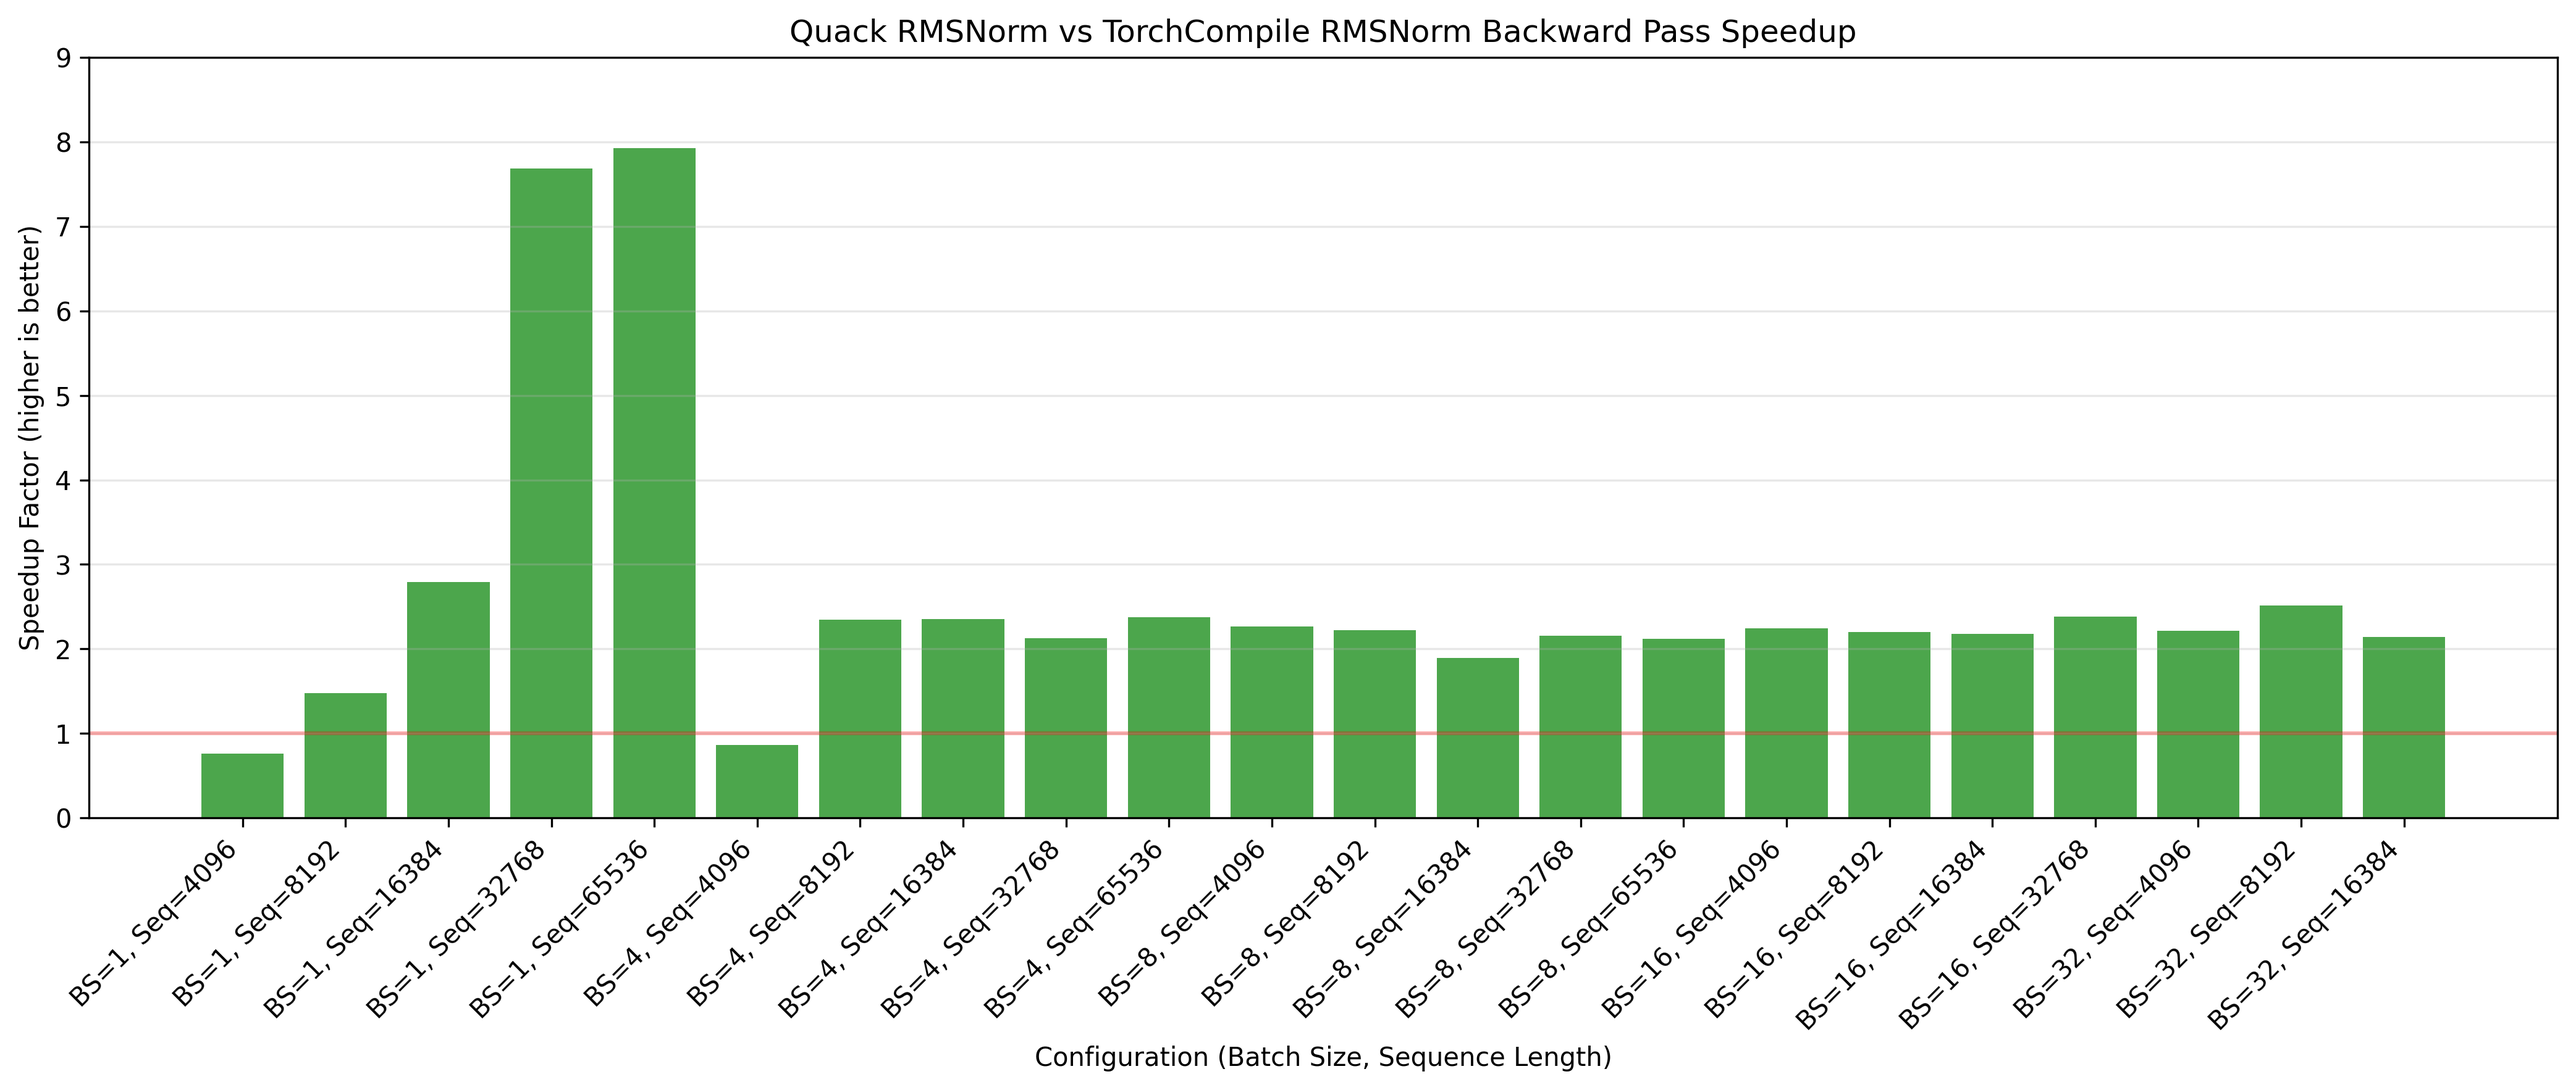
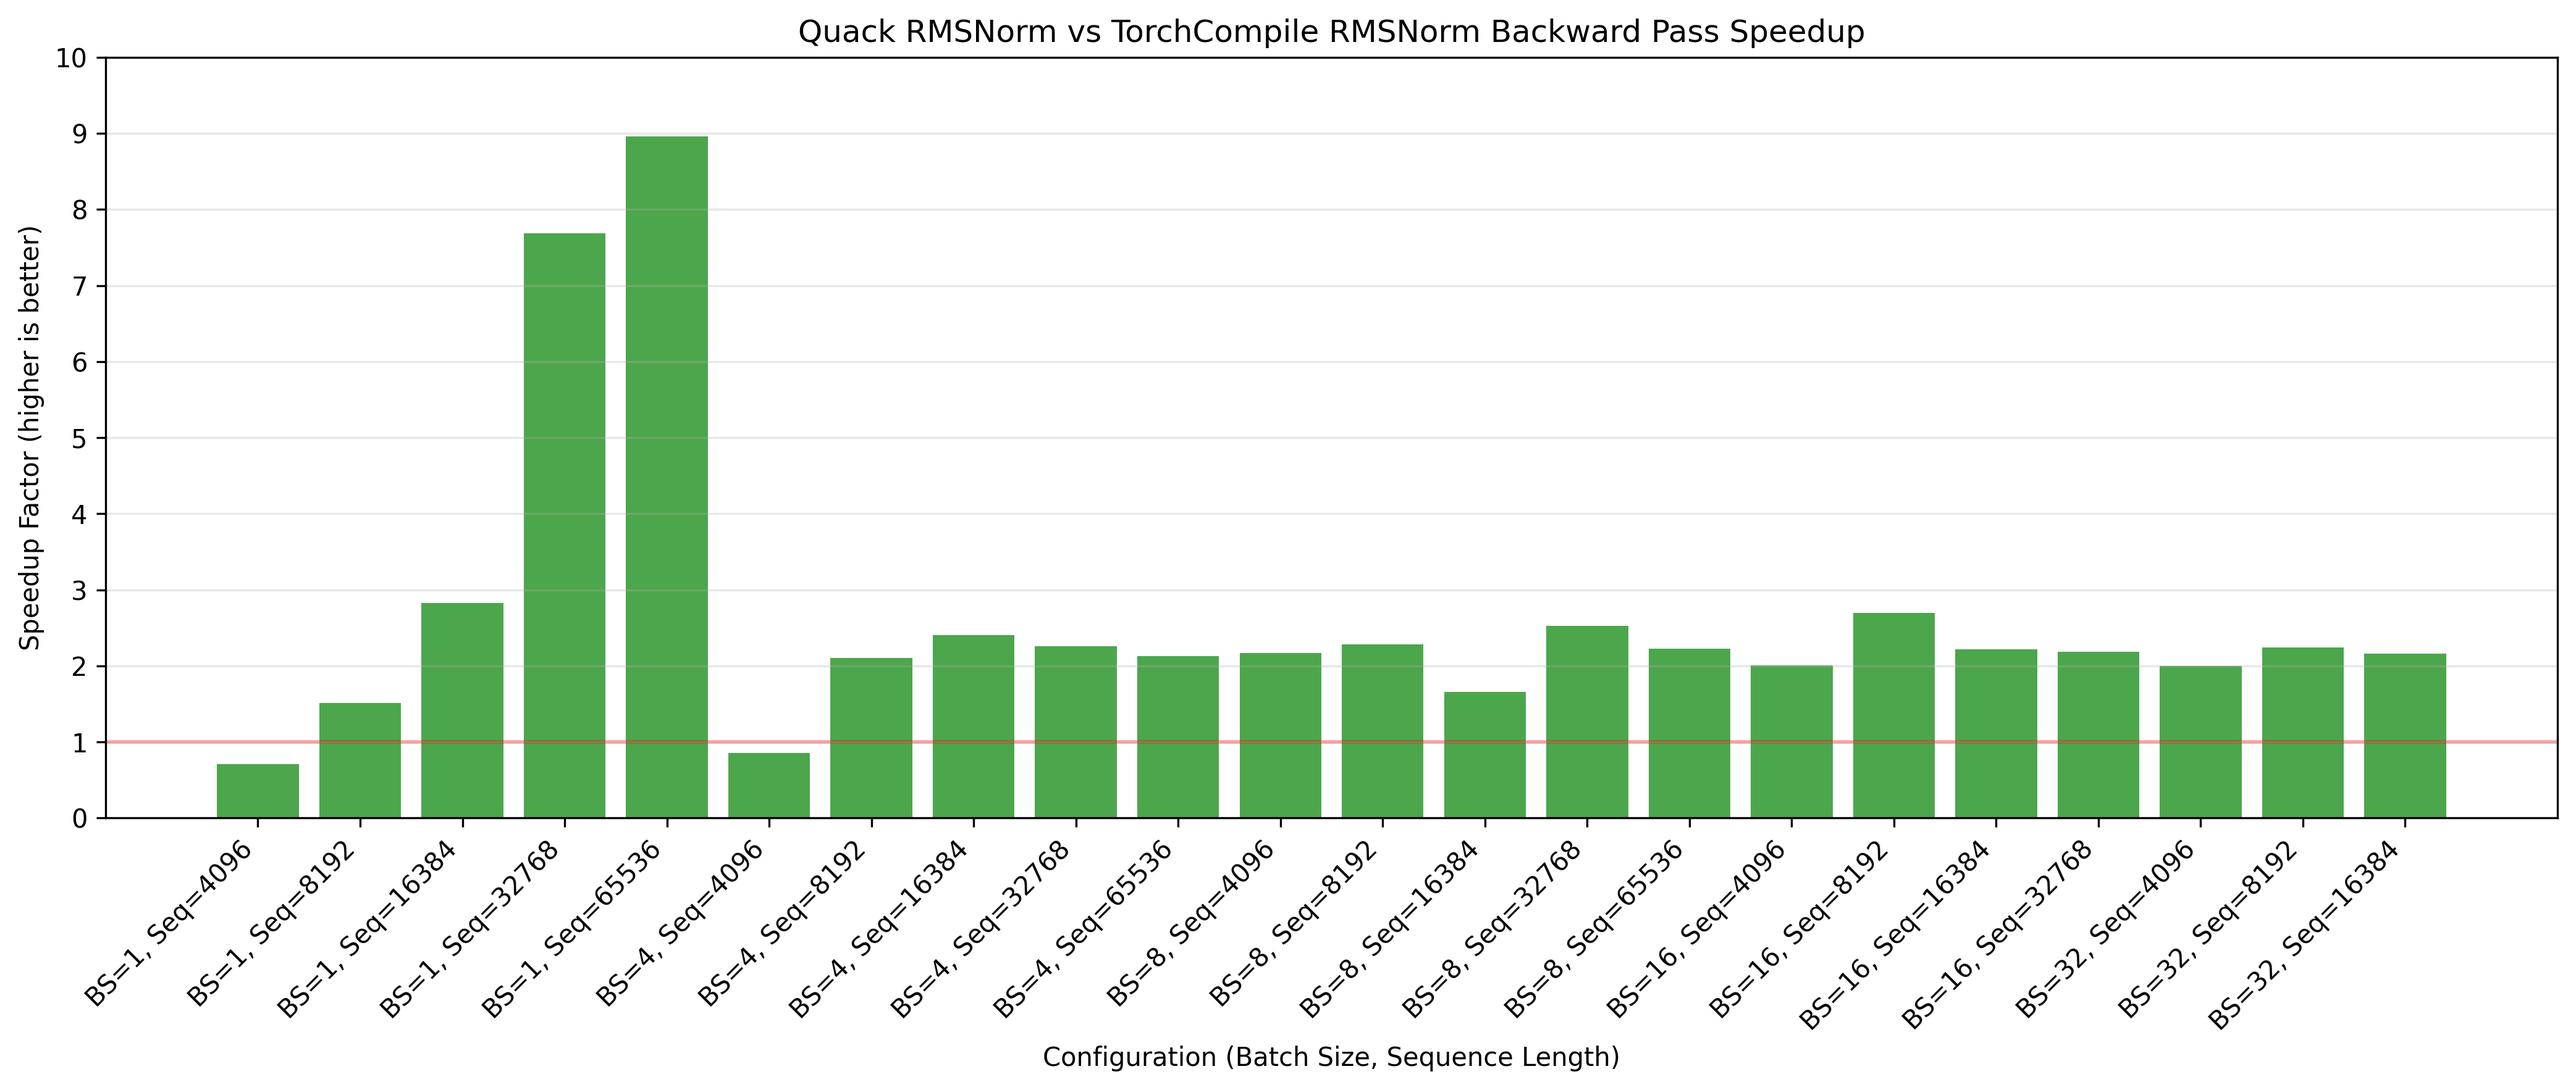
remove with no grad for forward_fn

diff --git a/benchmarks/pytorch_benchmark_rmsnorm_backward.py b/benchmarks/pytorch_benchmark_rmsnorm_backward.py
@@ -53,16 +53,14 @@ def benchmark_backward_by_subtraction(
     rep_ms = 100  # Default repetition time in ms
 
     # Create clones outside the benchmark functions to avoid including clone time
-    with torch.no_grad():
-        input_no_grad = input_data.clone()
+    input_no_grad = input_data.clone()
 
     # Create input with gradients outside the benchmark function
     input_with_grad = input_data.clone().requires_grad_(True)
 
     # Define the forward-only function
     def forward_fn():
-        with torch.no_grad():
-            output = model(input_no_grad)
+        output = model(input_no_grad)
         return output
 
     # Define the forward+backward function
